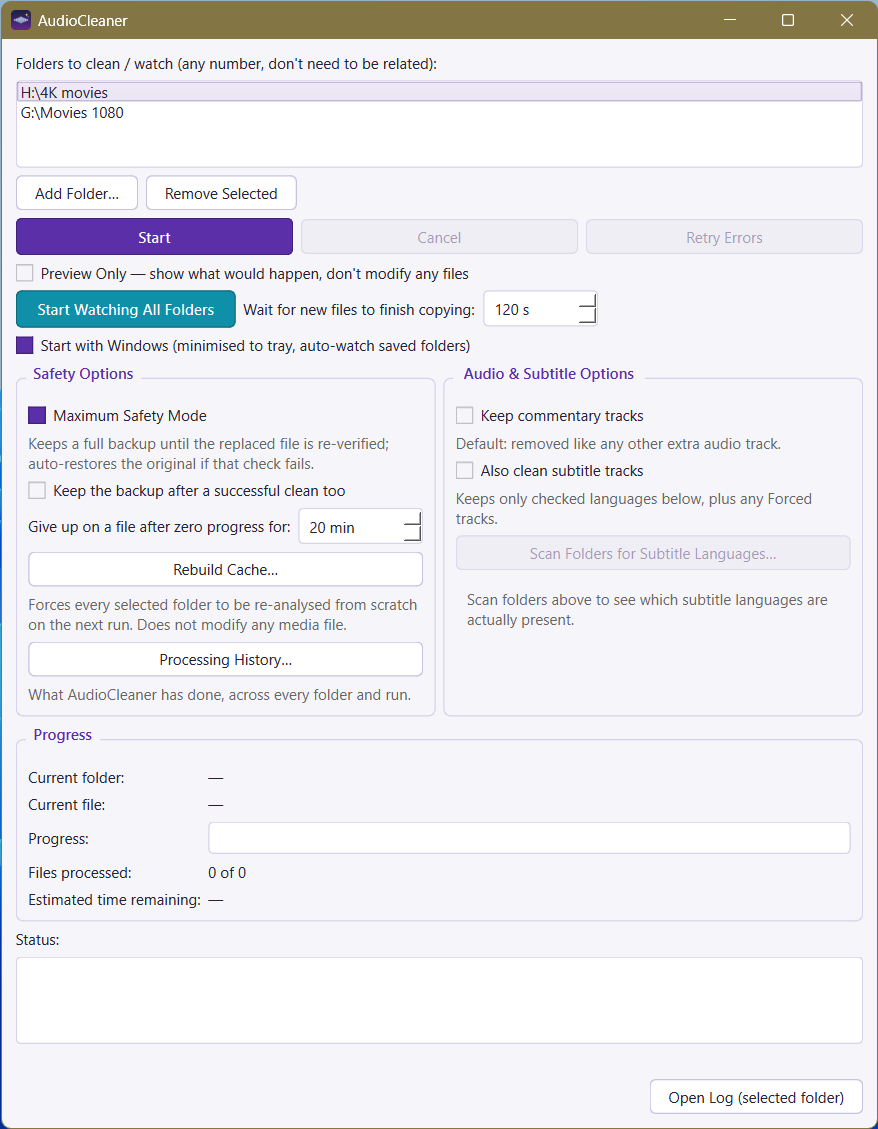
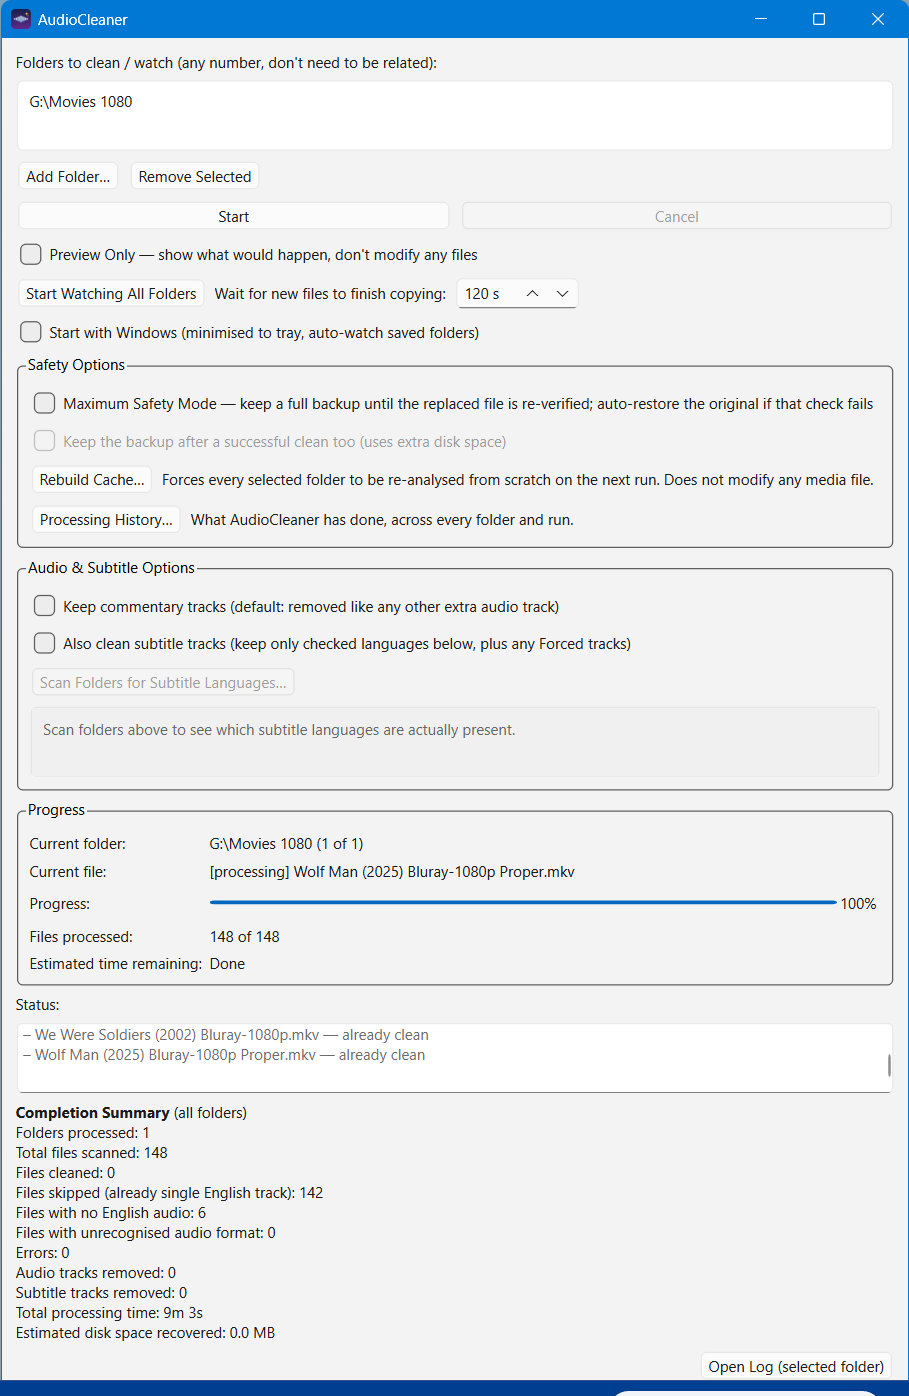
update polling

diff --git a/audiocleaner/probe.py b/audiocleaner/probe.py
@@ -327,7 +327,16 @@ def probe_file(path: Path, cache: Optional[ProbeCache] = None) -> FileProbeResul
     if mediainfo_path is not None:
         try:
             mi_data = _run_json([mediainfo_path, "--Output=JSON", str(path)])
-            for track in mi_data.get("media", {}).get("track", []):
+            # `.get(key, {})` only supplies the default when the key is
+            # *missing* -- if mediainfo emits the key with an explicit
+            # `null` (plausible on a truncated/still-copying file, where
+            # it can tell a section exists but can't fully read it yet),
+            # `.get()` returns None right through the default, and the
+            # very next `.get()` call on that blows up with "'NoneType'
+            # object has no attribute 'get'". `or {}` catches both cases.
+            for track in (mi_data.get("media") or {}).get("track") or []:
+                if not track:
+                    continue
                 if track.get("@type") != "Audio":
                     continue
                 mi_audio_by_position[len(mi_audio_by_position)] = track
@@ -367,10 +376,12 @@ def probe_file(path: Path, cache: Optional[ProbeCache] = None) -> FileProbeResul
         return "other"
 
     audio_index = 0
-    for track in mkv_data.get("tracks", []):
+    for track in mkv_data.get("tracks") or []:
+        if not track:
+            continue
         if track.get("type") != "audio":
             continue
-        props = track.get("properties", {})
+        props = track.get("properties") or {}
         codec_id = props.get("codec_id", "")
         codec_name = track.get("codec", "")
         track_number = props.get("number")
@@ -424,10 +435,12 @@ def probe_file(path: Path, cache: Optional[ProbeCache] = None) -> FileProbeResul
         )
         audio_index += 1
 
-    for track in mkv_data.get("tracks", []):
+    for track in mkv_data.get("tracks") or []:
+        if not track:
+            continue
         if track.get("type") != "subtitles":
             continue
-        props = track.get("properties", {})
+        props = track.get("properties") or {}
         result.subtitle_tracks.append(
             SubtitleTrackInfo(
                 track_id=track.get("id"),
@@ -446,10 +459,12 @@ def probe_file(path: Path, cache: Optional[ProbeCache] = None) -> FileProbeResul
         except (ValueError, AttributeError):
             return 0, 0
 
-    for track in mkv_data.get("tracks", []):
+    for track in mkv_data.get("tracks") or []:
+        if not track:
+            continue
         if track.get("type") != "video":
             continue
-        props = track.get("properties", {})
+        props = track.get("properties") or {}
         width, height = _parse_dim(props.get("pixel_dimensions") or props.get("display_dimensions") or "")
         result.video_tracks.append(
             VideoTrackInfo(
@@ -464,12 +479,12 @@ def probe_file(path: Path, cache: Optional[ProbeCache] = None) -> FileProbeResul
             )
         )
 
-    result.attachment_count = len(mkv_data.get("attachments", []))
+    result.attachment_count = len(mkv_data.get("attachments") or [])
     result.chapter_count = sum(
-        len(edition.get("chapter_atoms", []))
-        for edition in mkv_data.get("chapters", [])
+        len((edition or {}).get("chapter_atoms") or [])
+        for edition in (mkv_data.get("chapters") or [])
     )
-    container = mkv_data.get("container", {}).get("properties", {})
+    container = (mkv_data.get("container") or {}).get("properties") or {}
     duration_ns = container.get("duration")
     if duration_ns:
         result.duration_seconds = duration_ns / 1_000_000_000
@@ -480,4 +495,4 @@ def probe_file(path: Path, cache: Optional[ProbeCache] = None) -> FileProbeResul
 
 
 def audio_index_total(mkv_data: dict) -> int:
-    return sum(1 for t in mkv_data.get("tracks", []) if t.get("type") == "audio")
+    return sum(1 for t in (mkv_data.get("tracks") or []) if t and t.get("type") == "audio")
